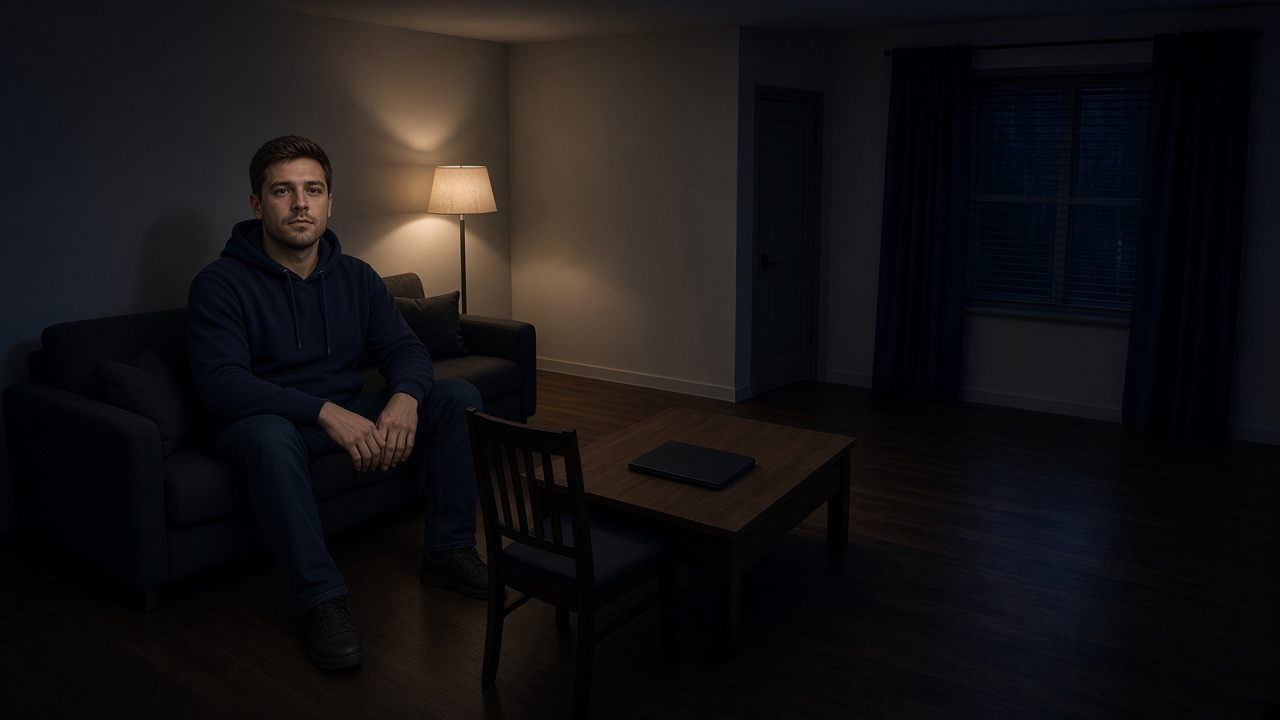
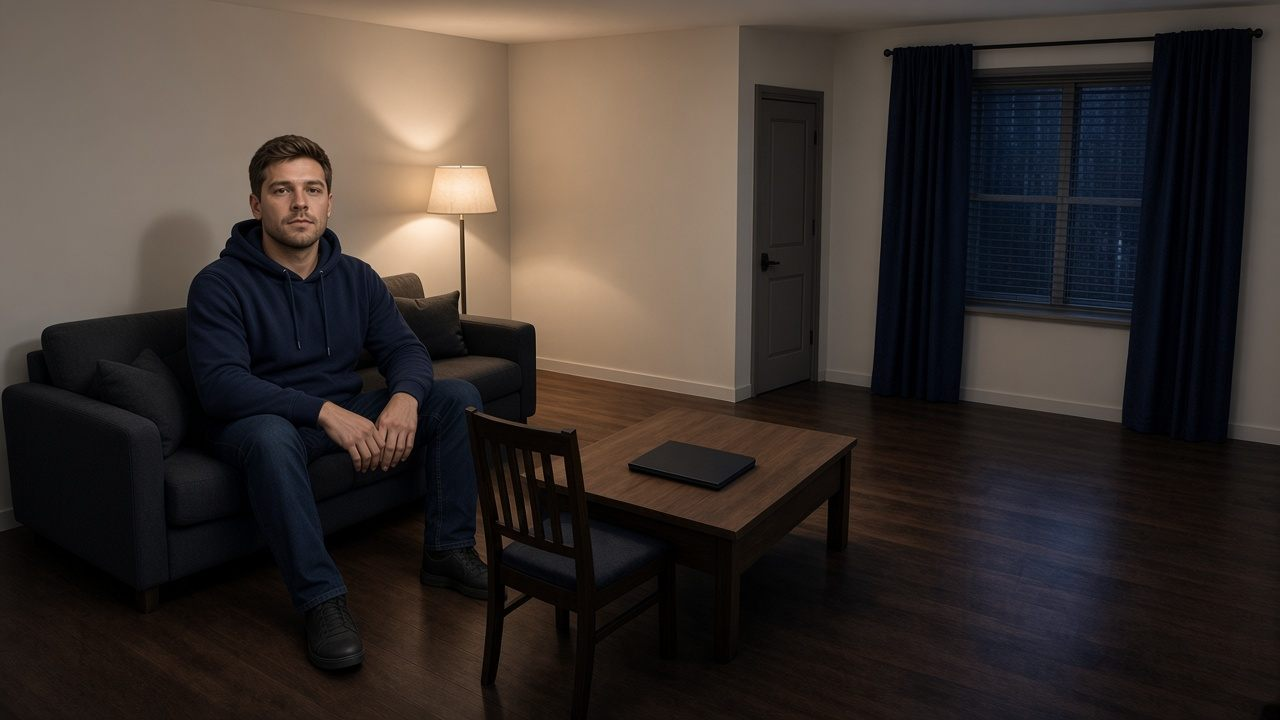
Put the Watch demo laptop box on the table laptop and show Restriction area 1 when she crosses.

diff --git a/demo.js b/demo.js
@@ -43,7 +43,7 @@
         img.src = jpg.replace(/\.jpg(\?.*)?$/i, ".png");
       }
     });
-    img.src = `${jpg}${jpg.includes("?") ? "&" : "?"}v=feed1`;
+    img.src = `${jpg}${jpg.includes("?") ? "&" : "?"}v=restrict1`;
     return img;
   };
   const room = load("demo-room.jpg");
@@ -83,17 +83,18 @@
   };
 
   const boxes = {
-    laptop: [0.478, 0.552, 0.082, 0.04],
-    chair: [0.338, 0.5, 0.128, 0.43],
-    alexBody: [0.072, 0.175, 0.275, 0.69],
-    alexFace: [0.148, 0.15, 0.095, 0.175],
-    alexClothes: [0.1, 0.32, 0.22, 0.36],
-    p2EnterBody: [0.618, 0.175, 0.155, 0.63],
-    p2EnterFace: [0.652, 0.15, 0.072, 0.135],
-    p2EnterClothes: [0.63, 0.28, 0.13, 0.28],
-    p2BothBody: [0.548, 0.15, 0.215, 0.73],
-    p2BothFace: [0.585, 0.125, 0.088, 0.155],
-    p2BothClothes: [0.57, 0.26, 0.16, 0.32],
+    laptop: [0.493, 0.616, 0.108, 0.048],
+    chair: [0.382, 0.498, 0.128, 0.42],
+    alexBody: [0.068, 0.16, 0.30, 0.68],
+    alexFace: [0.155, 0.175, 0.10, 0.175],
+    alexClothes: [0.112, 0.325, 0.22, 0.30],
+    p2EnterBody: [0.668, 0.152, 0.188, 0.64],
+    p2EnterFace: [0.732, 0.152, 0.078, 0.138],
+    p2EnterClothes: [0.688, 0.255, 0.15, 0.265],
+    p2BothBody: [0.62, 0.13, 0.195, 0.66],
+    p2BothFace: [0.668, 0.13, 0.075, 0.15],
+    p2BothClothes: [0.632, 0.26, 0.14, 0.26],
+    restrict: [0.648, 0.86, 0.708, 0.48],
   };
   const COL = {
     known: "rgb(120, 214, 86)",
@@ -102,6 +103,8 @@
     laptop: "rgb(255, 190, 90)",
     chair: "rgb(255, 196, 64)",
     hunt: "rgb(180, 224, 255)",
+    restrict: "rgb(255, 90, 40)",
+    restrictHot: "rgb(255, 36, 36)",
     pillBg: "rgb(24, 18, 16)",
     pillFg: "rgb(248, 246, 245)",
   };
@@ -115,18 +118,24 @@
     let lockAlex = 0;
     let lockP2 = 0;
     let objects = 0;
+    let restrictionHot = 0;
     let tickerKey = "demo.hunt";
     const lines = [];
 
-    if (u < 1600) {
-      const p = u / 1600;
-      hunt = [0.08 + p * 0.55, 0.18 + Math.sin(p * 6.2) * 0.12, 0.22, 0.28];
+    if (u < 1800) {
+      const p = u / 1800;
+      objects = ease((u - 250) / 650);
+      if (objects < 0.55) {
+        hunt = [0.08 + p * 0.55, 0.18 + Math.sin(p * 6.2) * 0.12, 0.22, 0.28];
+      }
       tickerKey = "demo.hunt";
-    } else if (u < 2800) {
-      const p = ease((u - 1600) / 1200);
+      if (objects > 0.4) lines.push("demo.j3");
+    } else if (u < 3400) {
+      const p = ease((u - 1800) / 1200);
       frame = "alex";
       mix = p;
       occupancy = p > 0.35 ? 1 : 0;
+      objects = 1;
       hunt = [
         lerp(0.42, boxes.alexBody[0], p),
         lerp(0.22, boxes.alexBody[1], p),
@@ -134,44 +143,47 @@
         lerp(0.26, boxes.alexBody[3], p),
       ];
       tickerKey = "demo.lock";
+      lines.push("demo.j3");
       if (occupancy) lines.push("demo.j1");
     } else if (u < 5200) {
       frame = "alex";
       mix = 1;
       occupancy = 1;
-      lockAlex = ease((u - 2800) / 500);
-      objects = ease((u - 3400) / 700);
+      lockAlex = ease((u - 3400) / 500);
+      objects = 1;
       tickerKey = "demo.named";
-      lines.push("demo.j1", "demo.j2");
-      if (objects > 0.4) lines.push("demo.j3");
+      lines.push("demo.j3", "demo.j1", "demo.j2");
     } else if (u < 7200) {
       const p = ease((u - 5200) / 1400);
       frame = "enter";
       mix = p;
-      occupancy = 1;
+      occupancy = p > 0.28 ? 2 : 1;
       lockAlex = 1;
       objects = 1;
       hunt = [
-        lerp(0.72, boxes.p2EnterBody[0], p),
-        lerp(0.2, boxes.p2EnterBody[1], p),
+        lerp(0.78, boxes.p2EnterBody[0], p),
+        lerp(0.18, boxes.p2EnterBody[1], p),
         lerp(0.16, boxes.p2EnterBody[2], p),
         lerp(0.28, boxes.p2EnterBody[3], p),
       ];
       tickerKey = "demo.motion";
-      lines.push("demo.j1", "demo.j2", "demo.j3");
+      lines.push("demo.j3", "demo.j1", "demo.j2");
+      if (p > 0.4) lines.push("demo.j4");
     } else {
       const p = ease((u - 7200) / 700);
       frame = "both";
       mix = p;
       occupancy = 2;
       lockAlex = 1;
-      lockP2 = ease((u - 7600) / 500);
+      lockP2 = ease((u - 7400) / 450);
       objects = 1;
-      tickerKey = "demo.two";
-      lines.push("demo.j1", "demo.j2", "demo.j3", "demo.j4");
+      restrictionHot = ease((u - 7350) / 380);
+      tickerKey = restrictionHot > 0.45 ? "demo.trespass" : "demo.two";
+      lines.push("demo.j3", "demo.j1", "demo.j2", "demo.j4");
+      if (restrictionHot > 0.45) lines.push("demo.j5");
     }
 
-    return { u, frame, mix, occupancy, hunt, lockAlex, lockP2, objects, tickerKey, lines };
+    return { u, frame, mix, occupancy, hunt, lockAlex, lockP2, objects, restrictionHot, tickerKey, lines };
   };
 
   const roundRect = (x, y, w, h, r) => {
@@ -203,6 +215,65 @@
       ctx.lineTo(cx, cy);
       ctx.stroke();
     });
+  };
+
+  const drawRestriction = (frame, hot) => {
+    if (!frame) return;
+    const [x1, y1, x2, y2] = boxes.restrict;
+    const a = { x: frame.x + x1 * frame.w, y: frame.y + y1 * frame.h };
+    const b = { x: frame.x + x2 * frame.w, y: frame.y + y2 * frame.h };
+    const occupied = hot > 0.45;
+    const color = occupied ? COL.restrictHot : COL.restrict;
+    const thick = occupied ? 4.2 : 2.2;
+    ctx.save();
+    ctx.lineCap = "round";
+    ctx.lineJoin = "round";
+    if (occupied) {
+      ctx.strokeStyle = "rgba(255, 36, 36, 0.2)";
+      ctx.lineWidth = 16;
+      ctx.beginPath();
+      ctx.moveTo(a.x, a.y);
+      ctx.lineTo(b.x, b.y);
+      ctx.stroke();
+    }
+    ctx.strokeStyle = "rgb(8, 10, 12)";
+    ctx.lineWidth = thick + 3;
+    ctx.beginPath();
+    ctx.moveTo(a.x, a.y);
+    ctx.lineTo(b.x, b.y);
+    ctx.stroke();
+    ctx.strokeStyle = color;
+    ctx.lineWidth = thick;
+    ctx.beginPath();
+    ctx.moveTo(a.x, a.y);
+    ctx.lineTo(b.x, b.y);
+    ctx.stroke();
+    ctx.fillStyle = color;
+    [a, b].forEach((pt) => {
+      ctx.beginPath();
+      ctx.arc(pt.x, pt.y, occupied ? 6 : 5, 0, Math.PI * 2);
+      ctx.fill();
+    });
+    const label = "Restriction area 1";
+    ctx.font = "600 12px Manrope, system-ui, sans-serif";
+    const tw = ctx.measureText(label).width;
+    const pillW = tw + 16;
+    const pillH = 18;
+    let px = (a.x + b.x) / 2 + 8;
+    let py = (a.y + b.y) / 2 - 22;
+    if (px + pillW > width - 4) px = Math.max(4, width - pillW - 4);
+    if (py < 4) py = 4;
+    roundRect(px, py, pillW, pillH, 6);
+    ctx.fillStyle = COL.pillBg;
+    ctx.fill();
+    ctx.strokeStyle = color;
+    ctx.lineWidth = 1;
+    ctx.stroke();
+    ctx.fillStyle = color;
+    ctx.fillRect(px, py + 3, 3, pillH - 6);
+    ctx.fillStyle = COL.pillFg;
+    ctx.fillText(label, px + 8, py + 13);
+    ctx.restore();
   };
 
   const labeledBox = (box, label, color, opts = {}) => {
@@ -292,8 +363,9 @@
     }
 
     drawScan(w, h, tms);
+    drawRestriction(frame, state.restrictionHot || 0);
 
-    if (state.hunt && state.lockAlex < 0.8) {
+    if (state.hunt && state.lockAlex < 0.8 && state.lockP2 < 0.4) {
       labeledBox(fromNorm(frame, state.hunt[0], state.hunt[1], state.hunt[2], state.hunt[3]), t("demo.hunting", "hunting…"), COL.hunt, { dashed: true });
     }
     if (state.lockAlex > 0.05) {

diff --git a/i18n.js b/i18n.js
@@ -59,7 +59,7 @@
         titleAccent: "Live,",
         titleRest: "as the node names who walked through.",
         lead:
-          "Illustrated clip — invented faces, not a webcam, not anyone in this household. Hunt, lock <strong>Person 1 · Alex</strong>, then Person 2 walks through. Occupancy 0 → 1 → 2.",
+          "Illustrated clip — invented faces, not a webcam, not anyone in this household. Empty room, lock <strong>Person 1 · Alex</strong>, then a woman in an olive jacket crosses <strong>Restriction area 1</strong>.",
         app: "Avistra Cloud",
         live: "Live",
         monitoring: "MONITORING",
@@ -74,12 +74,14 @@
         named: "Person 1 · Alex",
         motion: "motion · Person 2",
         two: "occupancy 2",
+        trespass: "Restriction area 1 · occupied",
         hunting: "hunting…",
         face: "face",
         j1: "Person 1 entered · dark hoodie",
         j2: "Person 1 · Alex present · named",
         j3: "laptop in view",
-        j4: "Person 2 entered · capture",
+        j4: "Person 2 entered · olive jacket",
+        j5: "crossed Restriction area 1",
       },
       features: {
         kicker: "What it sees",
@@ -426,7 +428,7 @@
         titleAccent: "Live,",
         titleRest: "kim keçdiyini adlandırır.",
         lead:
-          "Illüstrasiya — uydurulmuş üzlər, veb-kamera deyil, bu evdəki heç kim deyil. Axtarış, <strong>Person 1 · Alex</strong> kilidi, sonra Person 2 keçir. Doluluq 0 → 1 → 2.",
+          "Illüstrasiya — uydurulmuş üzlər, veb-kamera deyil, bu evdəki heç kim deyil. Boş otaq, <strong>Person 1 · Alex</strong> kilidi, sonra zeytun gödəkçəli qadın <strong>Restriction area 1</strong>-i keçir.",
         app: "Avistra Cloud",
         live: "Live",
         monitoring: "MONITORING",
@@ -441,12 +443,14 @@
         named: "Person 1 · Alex",
         motion: "hərəkət · Person 2",
         two: "doluluq 2",
+        trespass: "Restriction area 1 · dolu",
         hunting: "axtarış…",
         face: "üz",
         j1: "Person 1 daxil oldu · tünd hudi",
         j2: "Person 1 · Alex var · adlı",
         j3: "laptop görünür",
-        j4: "Person 2 daxil oldu · capture",
+        j4: "Person 2 daxil oldu · zeytun gödəkçə",
+        j5: "Restriction area 1 keçildi",
       },
       features: {
         kicker: "Nə görür",
@@ -793,7 +797,7 @@
         titleAccent: "Live,",
         titleRest: "узел называет, кто прошёл.",
         lead:
-          "Иллюстрация — выдуманные лица, не веб-камера и не кто-то из этого дома. Поиск, захват <strong>Person 1 · Alex</strong>, затем проходит Person 2. Заполняемость 0 → 1 → 2.",
+          "Иллюстрация — выдуманные лица, не веб-камера и не кто-то из этого дома. Пустая комната, захват <strong>Person 1 · Alex</strong>, затем женщина в оливковой куртке пересекает <strong>Restriction area 1</strong>.",
         app: "Avistra Cloud",
         live: "Live",
         monitoring: "MONITORING",
@@ -808,12 +812,14 @@
         named: "Person 1 · Alex",
         motion: "движение · Person 2",
         two: "заполняемость 2",
+        trespass: "Restriction area 1 · занято",
         hunting: "поиск…",
         face: "лицо",
         j1: "Person 1 вошёл · тёмное худи",
         j2: "Person 1 · Alex на месте · имя",
         j3: "laptop в кадре",
-        j4: "Person 2 вошёл · capture",
+        j4: "Person 2 вошёл · оливковая куртка",
+        j5: "пересечение Restriction area 1",
       },
       features: {
         kicker: "Что видит",

diff --git a/index.html b/index.html
@@ -143,7 +143,7 @@
           <span data-i18n="demo.titleRest">as the node names who walked through.</span>
         </h2>
         <p class="section-lead reveal" data-i18n="demo.lead">
-          Illustrated clip — invented faces, not a webcam, not anyone in this household. Hunt, lock <strong>Person 1 · Alex</strong>, then Person 2 walks through. Occupancy 0 → 1 → 2.
+          Illustrated clip — invented faces, not a webcam, not anyone in this household. Empty room, lock <strong>Person 1 · Alex</strong>, then a woman in an olive jacket crosses <strong>Restriction area 1</strong>.
         </p>
         <div class="player reveal" data-demo>
           <div class="monitor">
@@ -549,9 +549,9 @@
 
   <script src="donate-config.js?v=ui-20260922lic"></script>
   <script src="license-config.js?v=ui-20260922lic"></script>
-  <script src="i18n.js?v=ui-20260922lic"></script>
+  <script src="i18n.js?v=ui-20260922restrict"></script>
   <script src="script.js?v=ui-20260922lic"></script>
   <script src="gate.js?v=ui-20260922lic"></script>
-  <script src="demo.js?v=ui-20260922feed"></script>
+  <script src="demo.js?v=ui-20260922restrict"></script>
 </body>
 </html>
